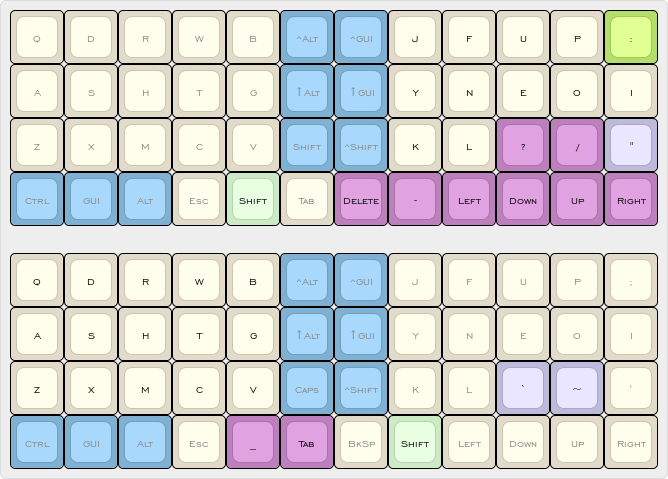
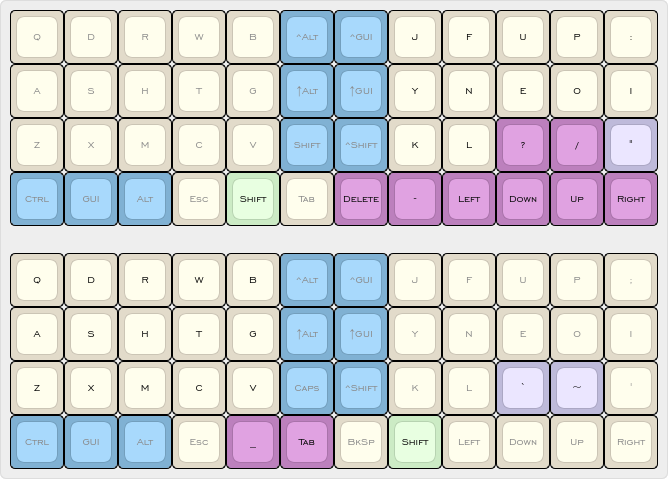
Drop colon doubletap

diff --git a/keymap.c b/keymap.c
@@ -65,7 +65,6 @@ enum planck_keycodes {
 /* tap dance keys */
 enum tap_dance {
     _CAPS = 0,
-    _COLN,
     _COMM,
     _DQOT,
     _ENT,
@@ -84,7 +83,6 @@ enum tap_dance {
 };
 
 #define TD_CAPS TD(_CAPS)
-#define TD_COLN TD(_COLN)
 #define TD_COMM TD(_COMM)
 #define TD_PERC TD(_PERC)
 #define TD_DQOT TD(_DQOT)
@@ -157,7 +155,7 @@ const uint16_t PROGMEM keymaps[][MATRIX_ROWS][MATRIX_COLS] = {
      * `-----------------------------------------------------------------------------------'
      */
     [_LSHIFT] = {
-        {S(KC_Q), S(KC_D), S(KC_R), S(KC_W), S(KC_B), OS_CALT, OS_CGUI, S(KC_J), S(KC_F), S(KC_U), S(KC_P), TD_COLN},
+        {S(KC_Q), S(KC_D), S(KC_R), S(KC_W), S(KC_B), OS_CALT, OS_CGUI, S(KC_J), S(KC_F), S(KC_U), S(KC_P), KC_COLN},
         {S(KC_A), S(KC_S), S(KC_H), S(KC_T), S(KC_G), OS_SALT, OS_SGUI, S(KC_Y), S(KC_N), S(KC_E), S(KC_O), S(KC_I)},
         {S(KC_Z), S(KC_X), S(KC_M), S(KC_C), S(KC_V), TD_CAPS, TD_ALPH, S(KC_K), S(KC_L), KC_SLSH, KC_QUES, TD_DQOT},
         {OS_CTL,  OS_GUI,  OS_ALT,  LT_ESC,  ___fn__, LT_TAB,  KC_DEL,  KC_MINS, PS_LEFT, S_DOWN,  S_UP,    S_RGHT}
@@ -175,7 +173,7 @@ const uint16_t PROGMEM keymaps[][MATRIX_ROWS][MATRIX_COLS] = {
      * `-----------------------------------------------------------------------------------'
      */
     [_RSHIFT] = {
-        {S(KC_Q), S(KC_D), S(KC_R), S(KC_W), S(KC_B), OS_CALT, OS_CGUI, S(KC_J), S(KC_F), S(KC_U), S(KC_P), TD_COLN},
+        {S(KC_Q), S(KC_D), S(KC_R), S(KC_W), S(KC_B), OS_CALT, OS_CGUI, S(KC_J), S(KC_F), S(KC_U), S(KC_P), KC_COLN},
         {S(KC_A), S(KC_S), S(KC_H), S(KC_T), S(KC_G), OS_SALT, OS_SGUI, S(KC_Y), S(KC_N), S(KC_E), S(KC_O), S(KC_I)},
         {S(KC_Z), S(KC_X), S(KC_M), S(KC_C), S(KC_V), TD_CAPS, TD_ALPH, S(KC_K), S(KC_L), TD_TILD, TD_GRV, TD_DQOT},
         {OS_CTL,  OS_GUI,  OS_ALT,  LT_ESC,  KC_UNDS, PS_TAB,  LT_BSPC, ___fn__, PS_LEFT, S_DOWN,  S_UP,    S_RGHT}
@@ -676,20 +674,6 @@ void alpha_reset(qk_tap_dance_state_t *state, void *user_data)
 
 /* Tap Dance Insert --------------------------------------------------------- */
 
-void colon(qk_tap_dance_state_t *state, void *user_data)
-{
-    if (state->count > 1) {
-        tap_key(KC_SPC);
-        shift_key(KC_SCLN);
-        shift_key(KC_SCLN);
-        tap_key(KC_SPC);
-    }
-    else {
-        shift_key(KC_SCLN);
-    }
-    reset_tap_dance(state);
-}
-
 void comma(qk_tap_dance_state_t *state, void *user_data)
 {
     tap_key(KC_COMM);
@@ -716,7 +700,6 @@ void caps(qk_tap_dance_state_t *state, void *user_data)
 
 qk_tap_dance_action_t tap_dance_actions[] = {
     [_CAPS] = ACTION_TAP_DANCE_FN(caps),
-    [_COLN] = ACTION_TAP_DANCE_FN(colon),
     [_COMM] = ACTION_TAP_DANCE_FN(comma),
     [_DQOT] = ACTION_TAP_DANCE_FN(doublequote),
     [_GRV]  = ACTION_TAP_DANCE_FN(grave),
